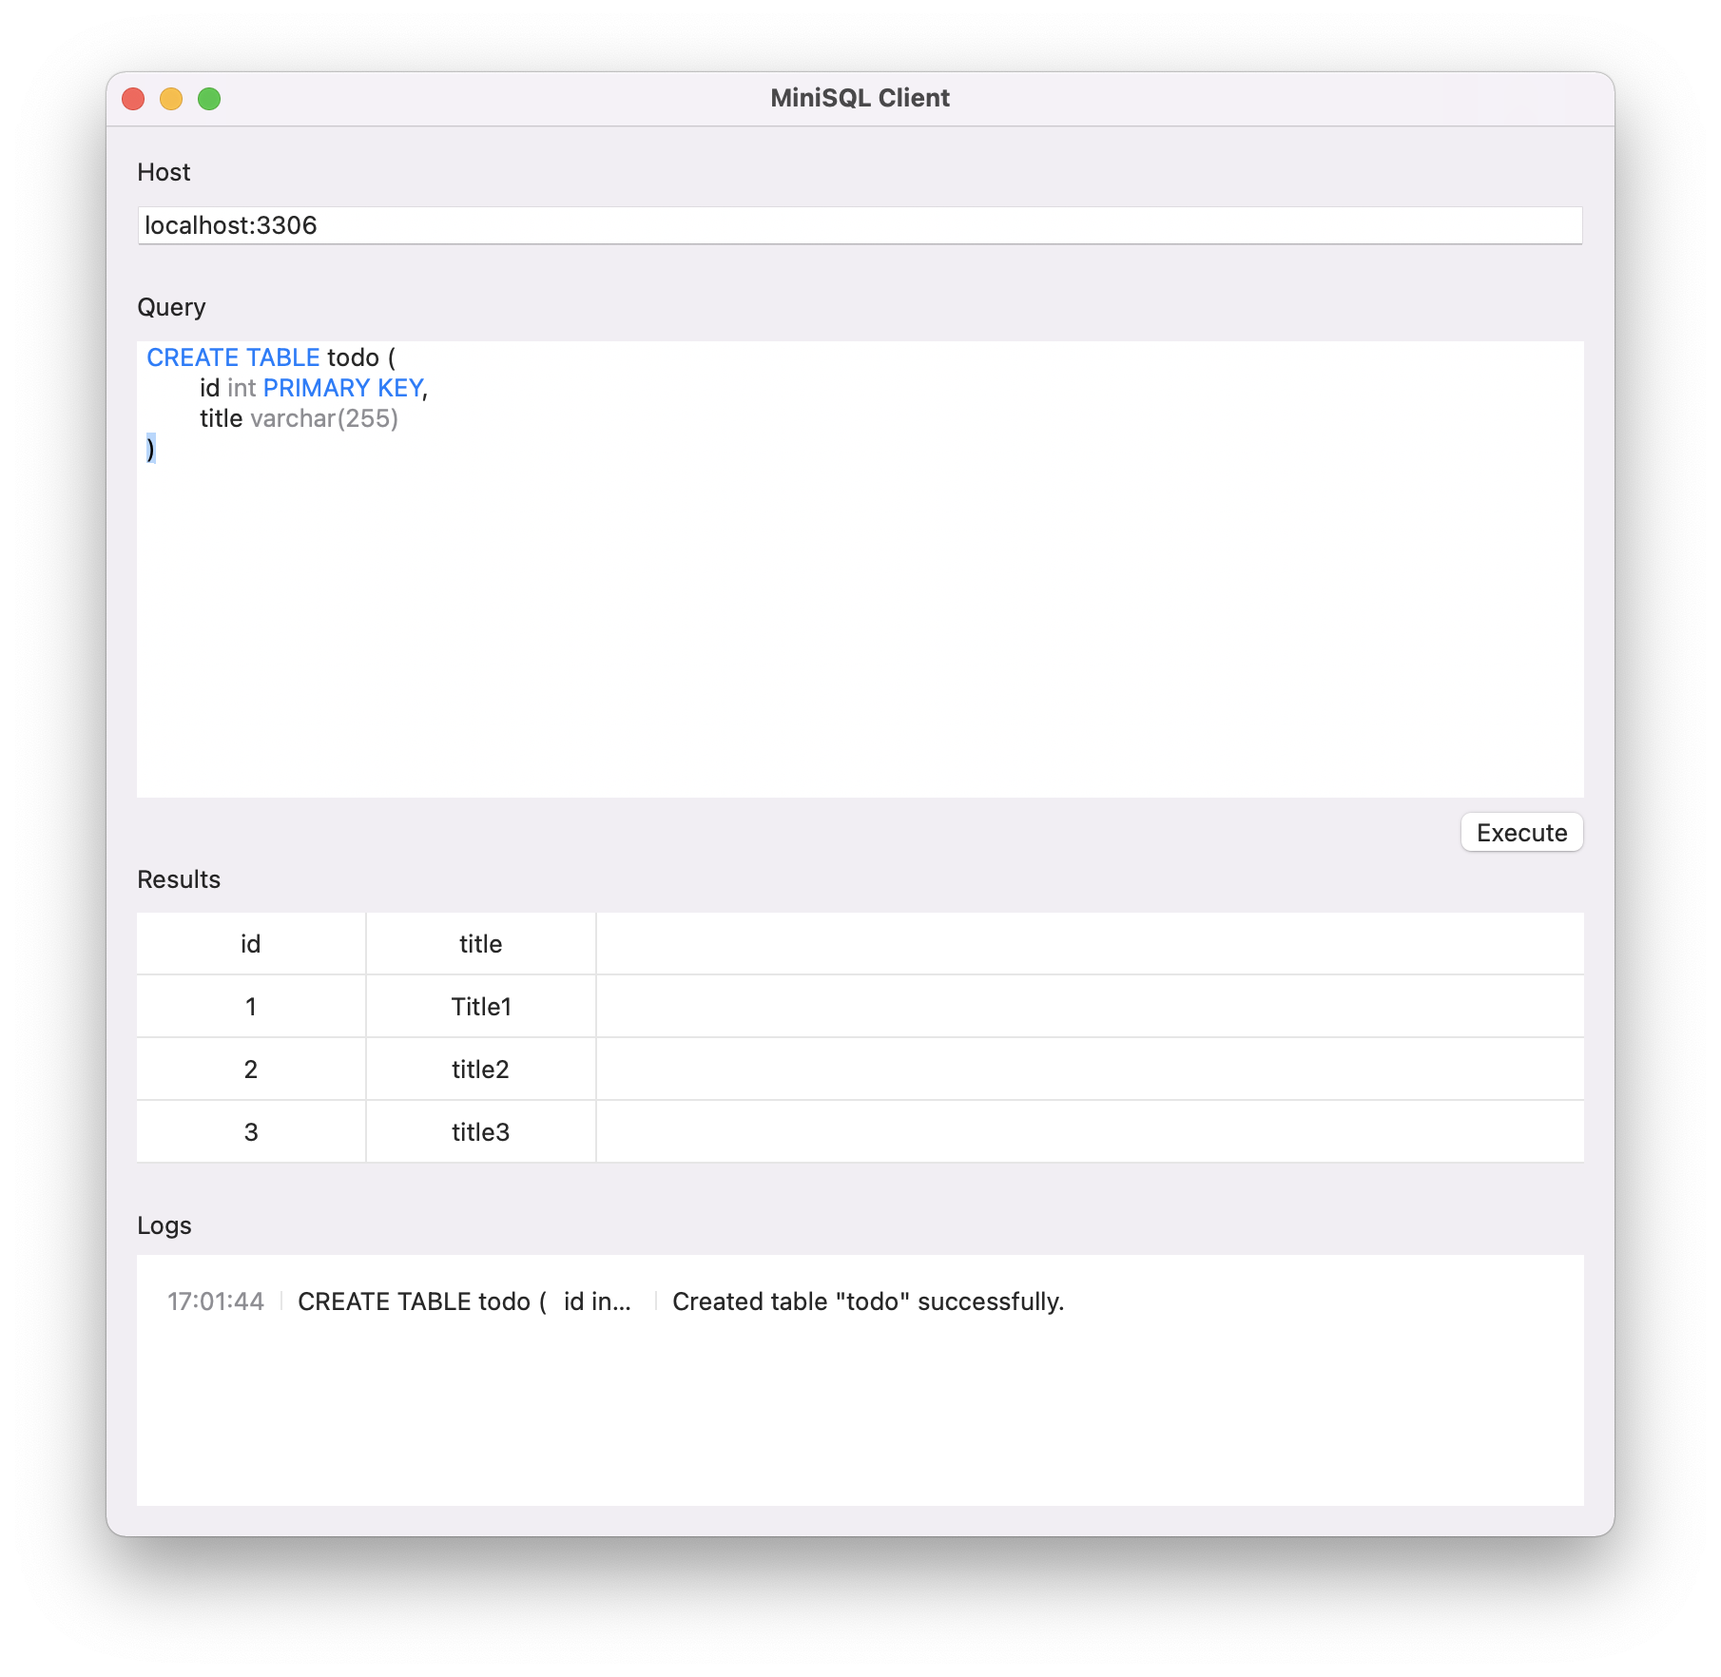
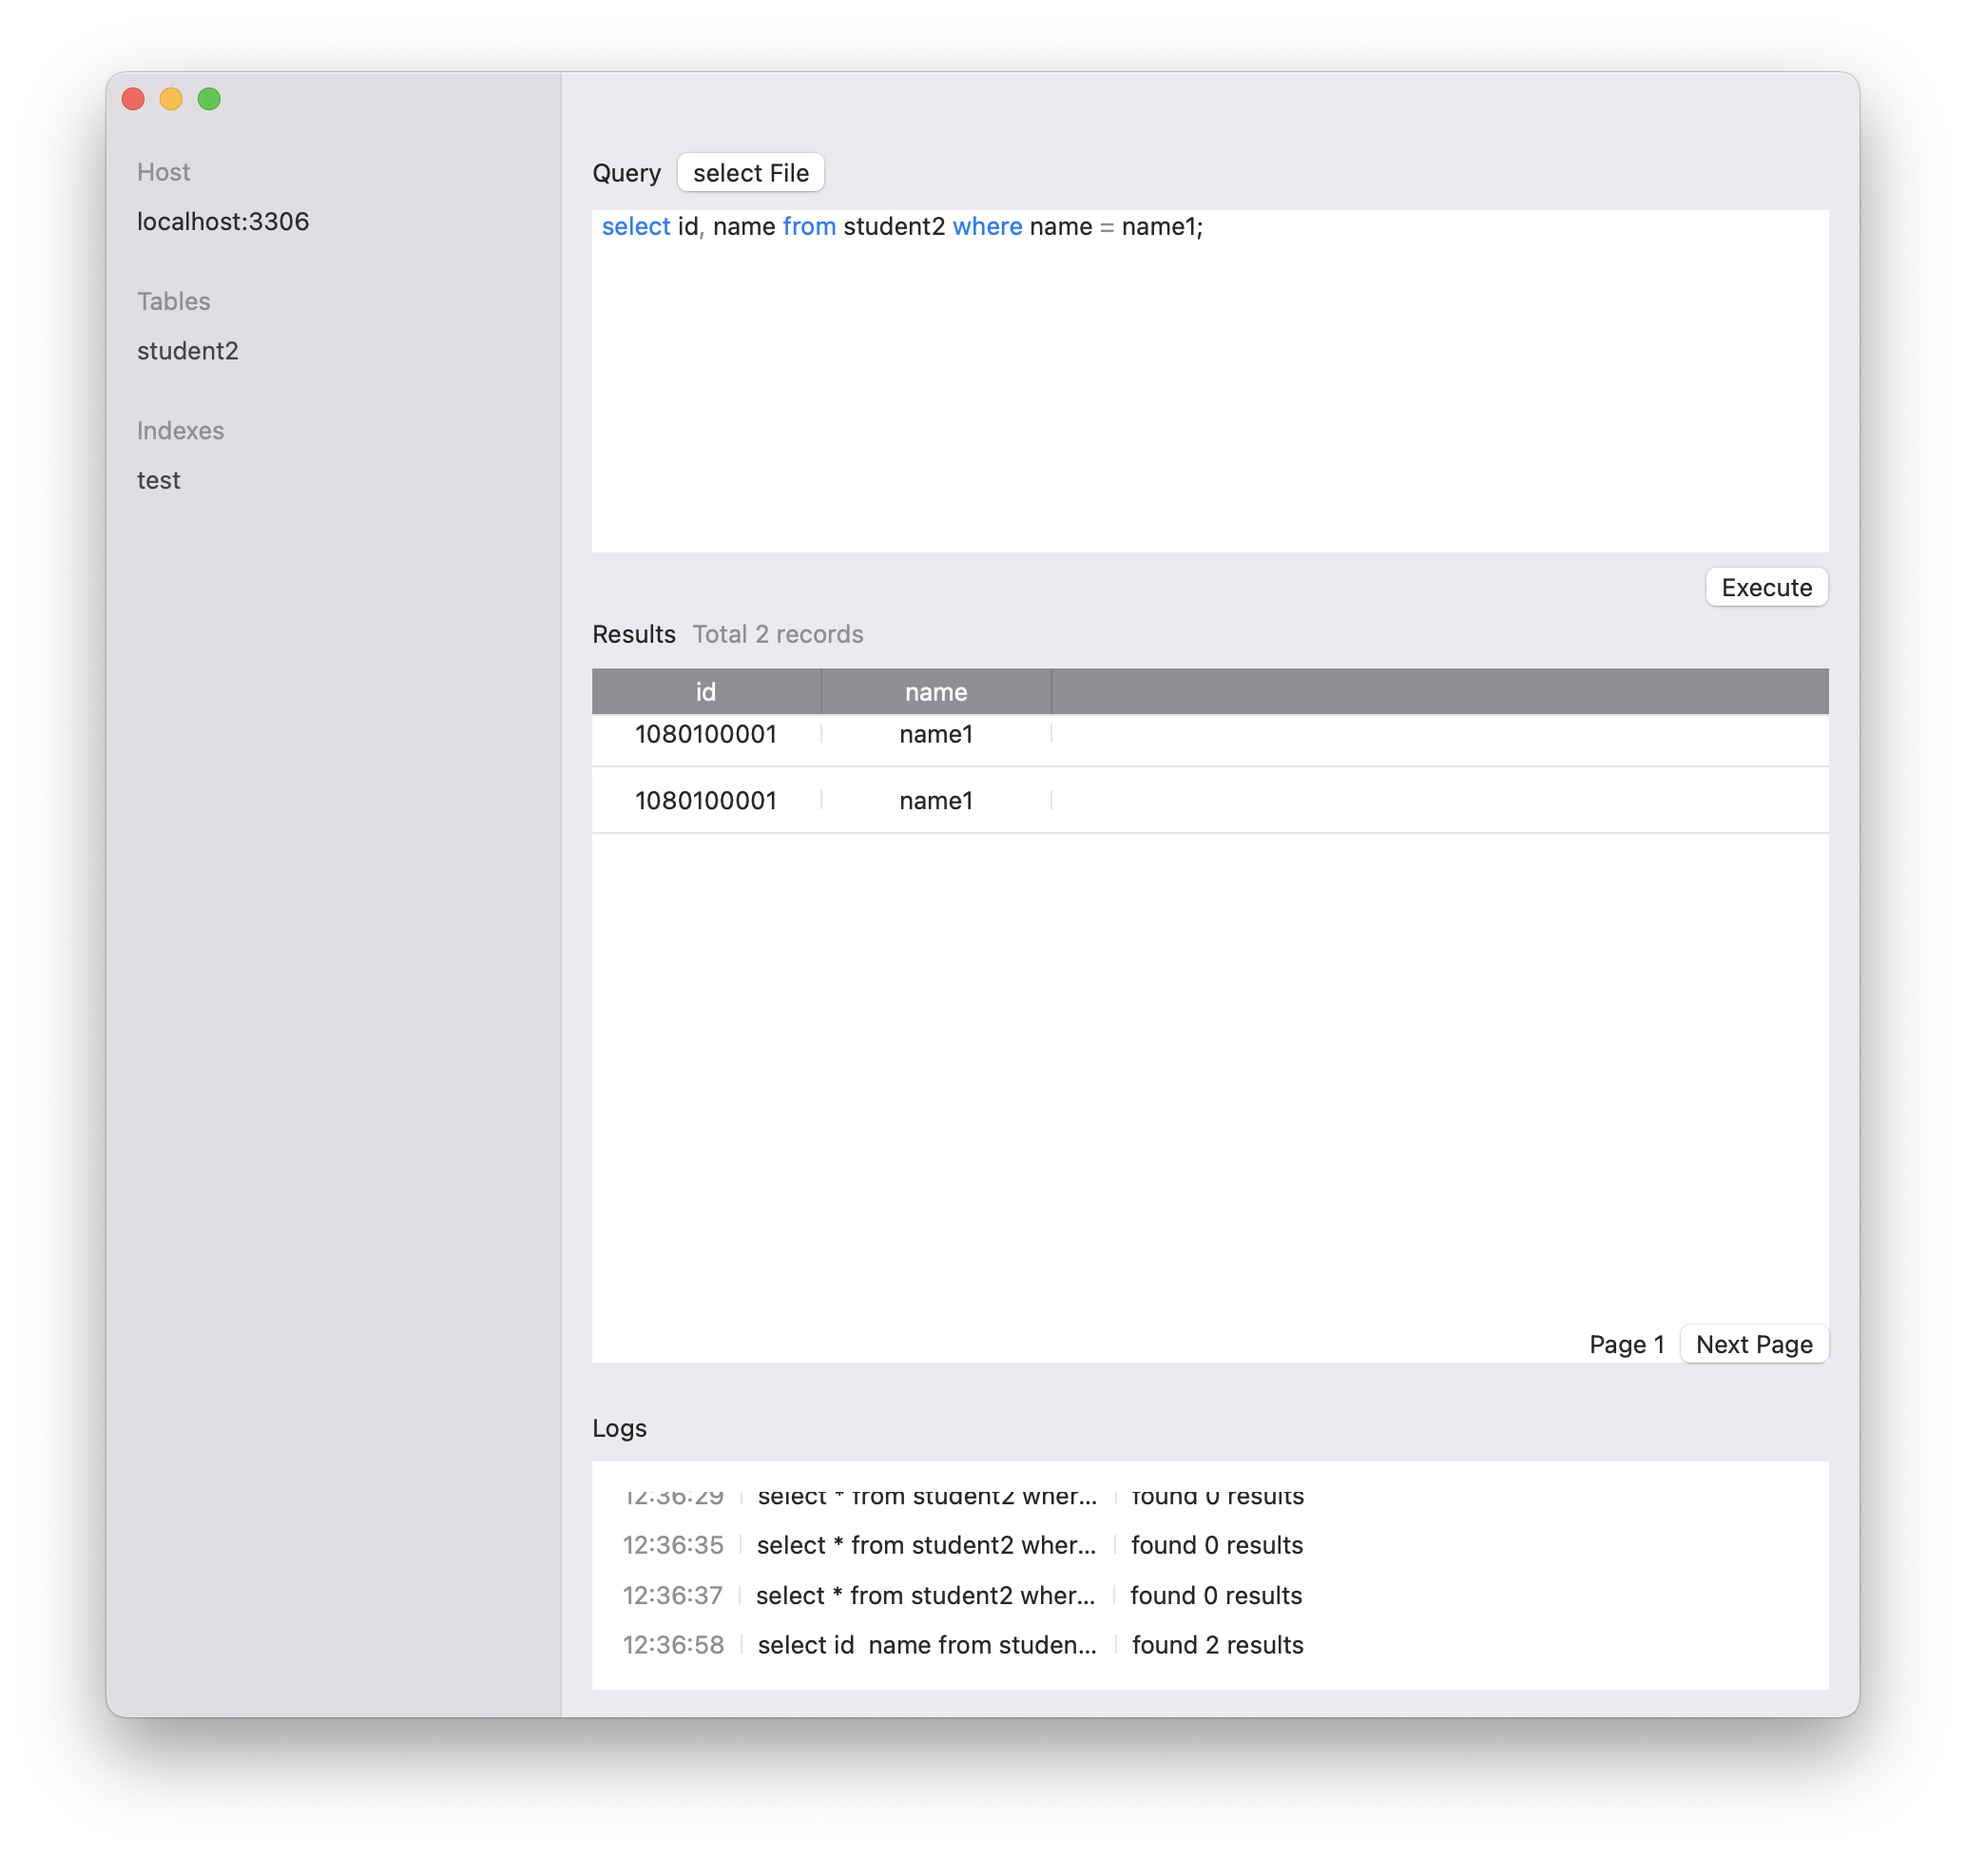
some improvements

diff --git a/ContentView.swift b/ContentView.swift
@@ -21,6 +21,10 @@ struct ContentView: View {
     
     @State private var messages: [Message] = mockMsgs
     
+    @State private var tables: [String] = ["student2"]
+    
+    @State private var indexes: [String] = ["test"]
+    
     @State private var showingAlert = false
     
     @State private var alertTitle = ""
@@ -35,14 +39,20 @@ struct ContentView: View {
             for item in messages {
                 tempArray.append(item)
             }
-            for msg in res?.messages ?? [] {
+            
+            guard let res = res else {
+                return
+            }
+            
+            for msg in res.messages.count > 20 ? res.messages[0...19] : res.messages[0...res.messages.count-1] {
                 tempArray.append(
                     Message(query: msg.command, content: msg.message, time: Date())
                 )
             }
+            
             messages = tempArray
-            data = res?.results ?? []
-            fields = res?.fields ?? []
+            data = res.results
+            fields = res.fields
             page = 1
             
         } else {
@@ -60,63 +70,92 @@ struct ContentView: View {
     
     var body: some View {
         
-        VStack(alignment: .leading) {
+        HSplitView {
             
-            Text("Host")
-            TextField("localhost:3306", text: $host).padding(.bottom)
-            
-            HStack {
-                Text("Query")
-                Button("select File") {
-                  let panel = NSOpenPanel()
-                  panel.allowsMultipleSelection = false
-                  panel.canChooseDirectories = false
-                  if panel.runModal() == .OK {
-                      
-                      guard let url = panel.url else {
-                          return
-                      }
-                      
-                      do {
-                          command = try String(contentsOf: url, encoding: .utf8)
-                      } catch {
-                          alertTitle = "Error"
-                          alertMsg = "Cannot open this file"
-                          showingAlert = true
-                      }
-                  }
-                }
+            List {
+                Text("Host")
+                    .foregroundColor(.gray)
+                
+                TextField("localhost:3306", text: $host)
+                    .padding(.bottom)
+                
+                Text("Tables")
+                    .foregroundColor(.gray)
+                
+                ForEach(tables, id: \.self) { table in
+                    
+                    Text(table)
+                        .onTapGesture {
+                            command += table
+                        }
+                    
+                }.padding(.bottom)
+                
+                Text("Indexes")
+                    .foregroundColor(.gray)
+                
+                ForEach(indexes, id: \.self) { index in
+                    Text(index)
+                }.padding(.bottom)
                 
             }
-            SQLEditor(command: $command)
-            
-            HStack{
-                Spacer()
-                Button("Execute") {
-                        executeSQL(url: host, query: command, callback: handleExecuted)
+            .listStyle(SidebarListStyle())
+        
+            VStack(alignment: .leading) {
+                
+                HStack {
+                    Text("Query")
+                    Button("select File") {
+                      let panel = NSOpenPanel()
+                      panel.allowsMultipleSelection = false
+                      panel.canChooseDirectories = false
+                      if panel.runModal() == .OK {
+                          
+                          guard let url = panel.url else {
+                              return
+                          }
+                          
+                          do {
+                              command = try String(contentsOf: url, encoding: .utf8)
+                          } catch {
+                              alertTitle = "Error"
+                              alertMsg = "Cannot open this file"
+                              showingAlert = true
+                          }
+                      }
+                    }
+                    
                 }
-            }
-            
-            
-            if(data.count > 0) {
+                SQLEditor(command: $command)
                 
                 HStack{
-                    Text("Results")
-                    Text("Total " + String(data.count) + " records").foregroundColor(.gray)
+                    Spacer()
+                    Button("Execute") {
+                            executeSQL(url: host, query: command, callback: handleExecuted)
+                    }
                 }
                 
-                DataTable(fields: $fields, data: $data, page: $page)
+                
+                if(data.count > 0) {
+                    
+                    HStack{
+                        Text("Results")
+                        Text("Total " + String(data.count) + " records").foregroundColor(.gray)
+                    }
+                    
+                    DataTable(fields: $fields, data: $data, page: $page)
+                    
+                }
+                
+                Text("Logs").padding(.top)
+                
+                MessageTable(messages: $messages)
+                
+            }.padding().alert(isPresented: $showingAlert) {
+                
+                Alert(title: Text(alertTitle), message: Text(alertMsg), dismissButton: .default(Text("Close")))
                 
             }
-            
-            Text("Logs").padding(.top)
-            
-            MessageTable(messages: $messages)
-            
-        }.padding().alert(isPresented: $showingAlert) {
-            
-            Alert(title: Text(alertTitle), message: Text(alertMsg), dismissButton: .default(Text("Close")))
-            
         }
         
 

diff --git a/DataTable.swift b/DataTable.swift
@@ -15,11 +15,11 @@ struct DataTable:View {
     @Binding var page: Int;
     
     func dataFromIndex() -> Int {
-        return 200 * (page-1) > data.count ? data.count - 1 : 200 * (page-1)
+        return 60 * (page-1) > data.count ? data.count - 1 : 60 * (page-1)
     }
     
     func dataToIndex() -> Int {
-        return 200 * (page) > data.count ? data.count : 200 * page
+        return 60 * (page) > data.count ? data.count : 60 * page
     }
     
     var body: some View {
@@ -34,7 +34,7 @@ struct DataTable:View {
                 }
                 Spacer()
                 
-            }.background(Color.gray)
+            }.background(Color.gray).frame(height: 24)
             
             Divider()
             

diff --git a/SQLEditor.swift b/SQLEditor.swift
@@ -53,9 +53,9 @@ struct SQLEditor: View {
     
     var body: some View {
         HighlightedTextEditor(text: $command, highlightRules: self.rules).frame(
-            minHeight: 240,
-            idealHeight: 240,
-            maxHeight: 240,
+            minHeight: 180,
+            idealHeight: 180,
+            maxHeight: 180,
             alignment: .leading)
     }
 }

diff --git a/MiniSQL_ClientApp.swift b/MiniSQL_ClientApp.swift
@@ -12,6 +12,6 @@ struct MiniSQL_ClientApp: App {
     var body: some Scene {
         WindowGroup {
             ContentView()
-        }
+        }.windowStyle(HiddenTitleBarWindowStyle())
     }
 }
